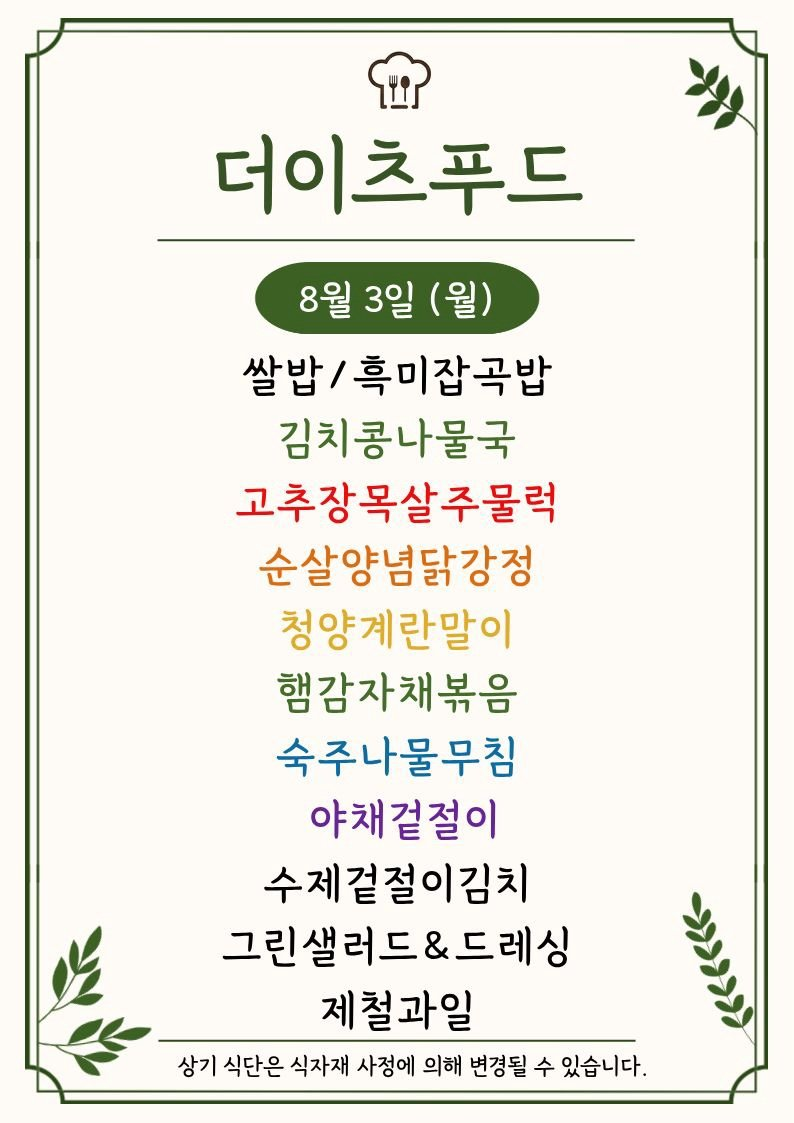
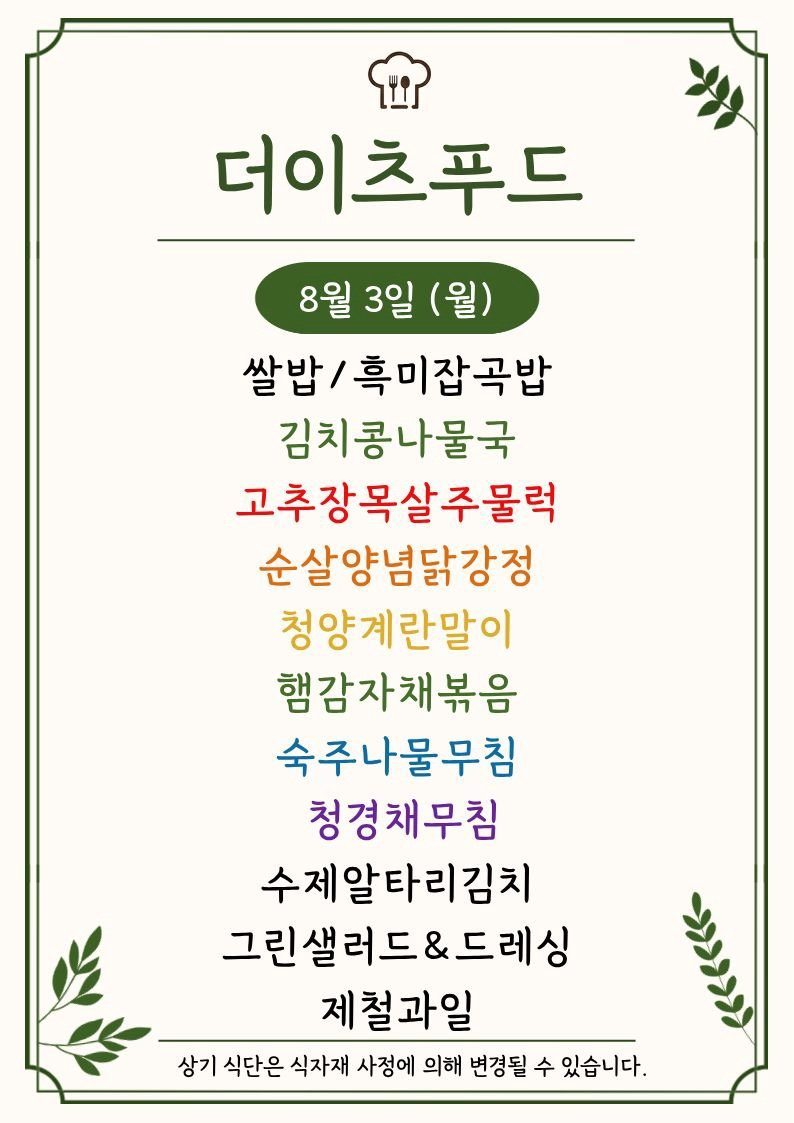
Update menu board assets

Changed region(s): [[0.3325, 0.7168, 0.665, 0.8103]]

diff --git a/guro-menu/index.html b/guro-menu/index.html
@@ -32,7 +32,7 @@
   </header>
   <section class="meta">
     <div><small>기준 날짜</small><strong>2026년 8월 3일 월요일</strong></div>
-    <div><small>최종 갱신</small><strong>2026-08-03 10:48:34</strong></div>
+    <div><small>최종 갱신</small><strong>2026-08-03 11:03:31</strong></div>
     <div><small>등록 식당</small><strong>5개</strong></div>
   </section>
   <div class="notice">공개 카카오 채널의 메뉴 이미지를 자동 수집하고 OCR로 정리합니다. 텍스트에 오타가 있을 수 있으니 식단 이미지를 함께 확인해 주세요.</div>
@@ -75,8 +75,8 @@
           <a class="channel" href="https://pf.kakao.com/_xeVwxnn" target="_blank" rel="noopener">원본 채널</a>
         </div>
         <img class="menu-image" src="./images/the-eats-food.png" alt="더이츠푸드 식단 이미지" loading="lazy">
-        
-        <ul><li>더[0 프ㄷ</li><li>쌀밥/흑미잡곡밥</li><li>김치콩나물국</li><li>고추장목살주물럭</li><li>순살양념닭강정</li><li>햄감자채볶음</li><li>숙주나물무침</li><li>야채겉절이</li><li>수제겉절이김치 0</li><li>그린샐러드&amp;드레싱 Y</li><li>제철과일</li></ul>
+        <p class="message">최신 공개 식단 이미지의 텍스트입니다. 날짜는 원본 이미지를 확인해 주세요.</p>
+        <ul><li>&gt; —_ 2&gt;2&gt;2&gt;2&gt;}&gt;》&gt;》8》8}}32220 2닌</li><li>쌀밥/흑미잡곡밥</li><li>김치콩나물국</li><li>고추장목살주물럭</li><li>순살양념닭강정</li><li>햄감자채볶음</li><li>숙주나물무침</li><li>청경채무침</li><li>수제알타리김치</li><li>그린샐러드&amp;드레싱 Y</li><li>제철과일 y</li></ul>
       </article>
 
       <article class="restaurant-card">

diff --git a/menu-today/index.html b/menu-today/index.html
@@ -209,7 +209,7 @@
 
     <section class="meta-bar">
       <div class="meta-card"><div class="meta-label">기준 날짜</div><div class="meta-value">2026년 8월 3일 월요일</div></div>
-      <div class="meta-card"><div class="meta-label">최종 가져온 시간</div><div class="meta-value">2026-08-03 10:48:20</div></div>
+      <div class="meta-card"><div class="meta-label">최종 가져온 시간</div><div class="meta-value">2026-08-03 11:03:17</div></div>
       <div class="meta-card"><div class="meta-label">확인 완료</div><div class="meta-value">9개 식당</div></div>
       <div class="meta-card"><div class="meta-label">준비중</div><div class="meta-value">3개 채널</div></div>
     </section>
